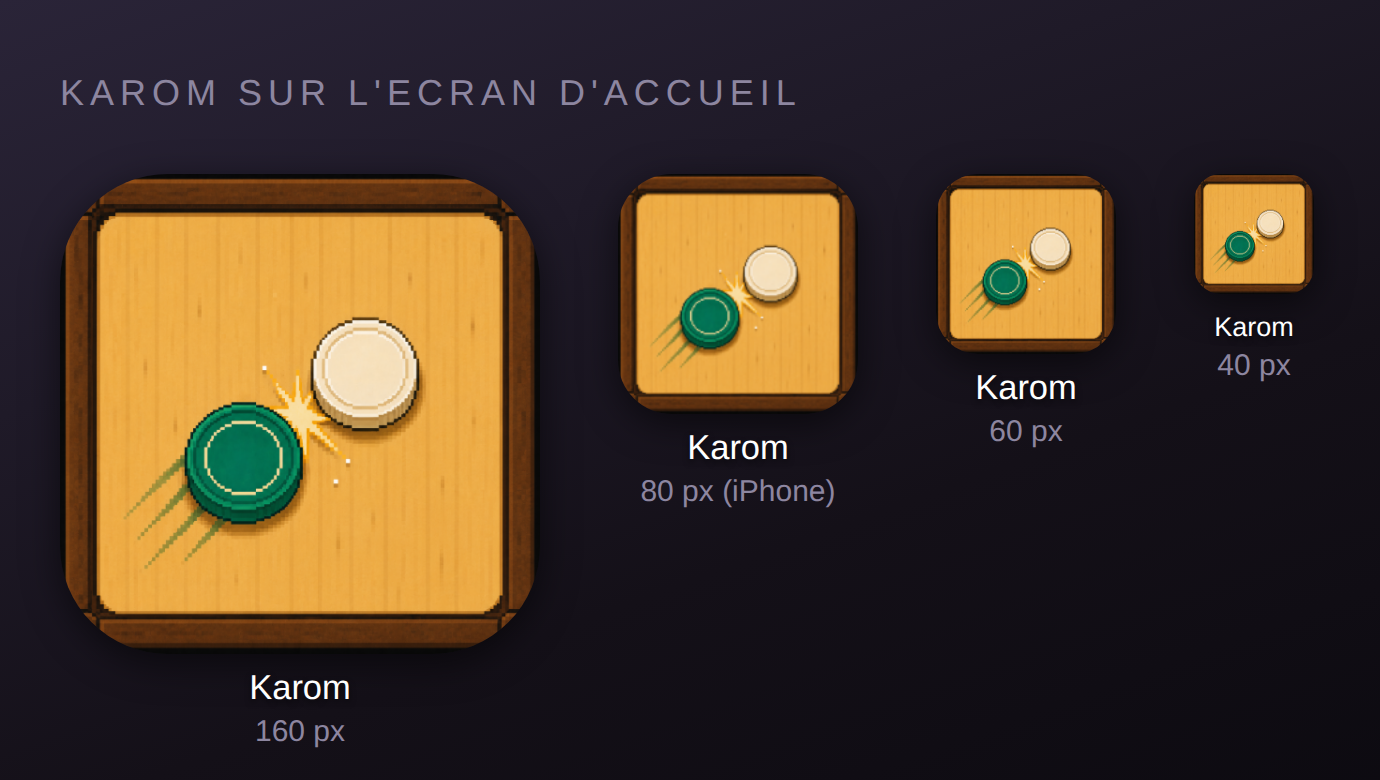
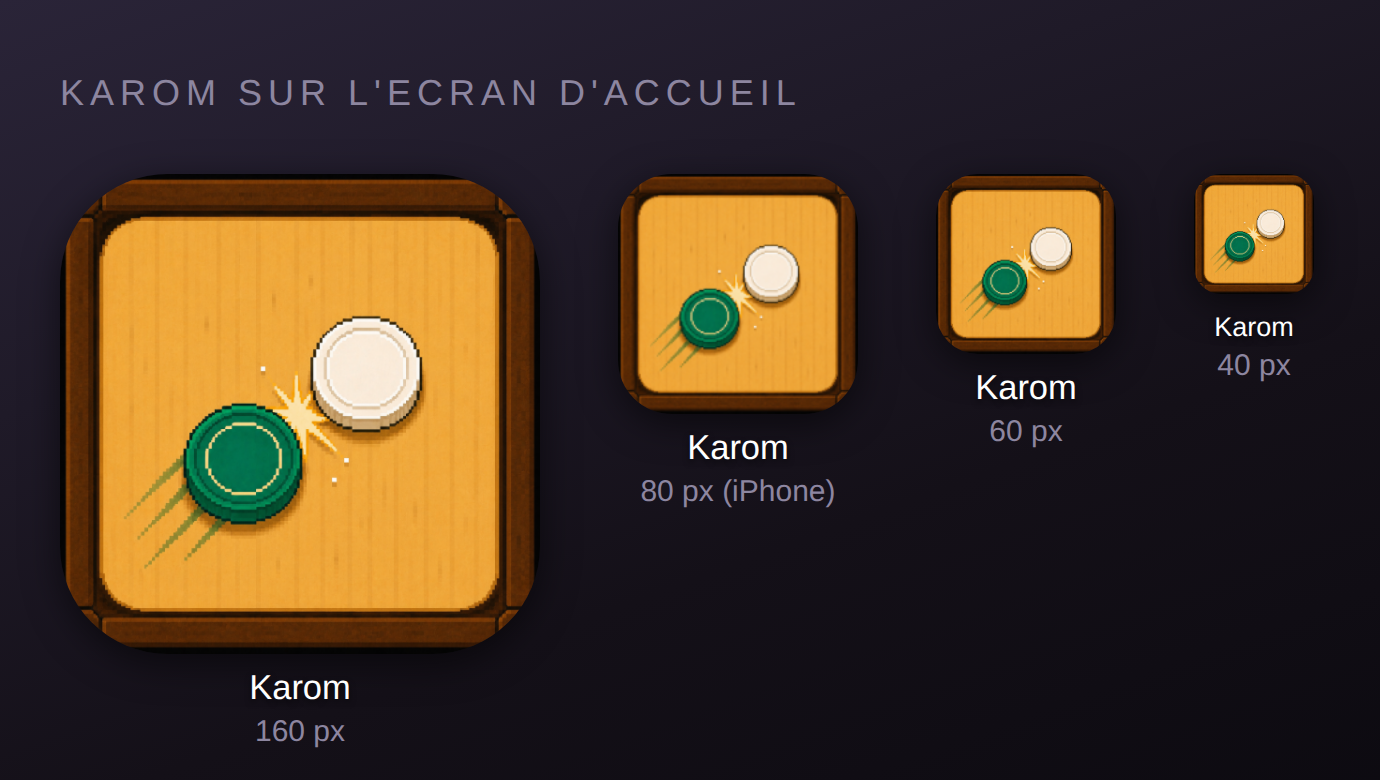
Icone de l'application : version aux angles corriges
Le cadre du plateau est rentre de quelques pixels et ses coins interieurs
sont arrondis : le masque arrondi des systemes retombe desormais sur la
courbe du plateau au lieu de couper le bois en biais.

Claude-Session: https://claude.ai/code/session_01P1kGgqf4yKwvjTgi27QtYv

diff --git a/visuels/app/README.md b/visuels/app/README.md
@@ -5,14 +5,18 @@ jeton clair à l'instant du choc, gerbe dorée entre les deux, lignes de
 vitesse derrière le palet, le tout sur un plateau de bois vu en entier —
 cadre sombre, coins renforcés, tapis clair veiné. Le format est carré et à
 fond perdu, c'est ce qu'il faut : les systèmes appliquent eux-mêmes leur
-masque arrondi, qui vient rogner les quatre coins noirs.
+masque arrondi.
+
+Cette version-ci corrige les angles : le cadre est rentré de quelques pixels
+et ses coins intérieurs sont arrondis, si bien que le masque du système
+retombe sur la courbe du plateau au lieu de couper le bois en biais.
 
 ## Sur la définition
 
 La source fait 1254 px de côté, soit plus que les 1024 px de la plus grande
 taille réclamée par les systèmes. **Aucun agrandissement n'était donc
 nécessaire**, et il aurait été contre-productif : l'image a été
-rééchantillonnée avant de m'arriver — 69 335 couleurs distinctes et
+rééchantillonnée avant de m'arriver — 74 605 couleurs distinctes et
 seulement 26 ruptures franches sur toute la largeur, là où un vrai pixel art
 compte quelques dizaines de couleurs et une rupture à chaque bord de bloc.
 Autrement dit ses blocs sont légèrement flous, et l'agrandir n'aurait fait
